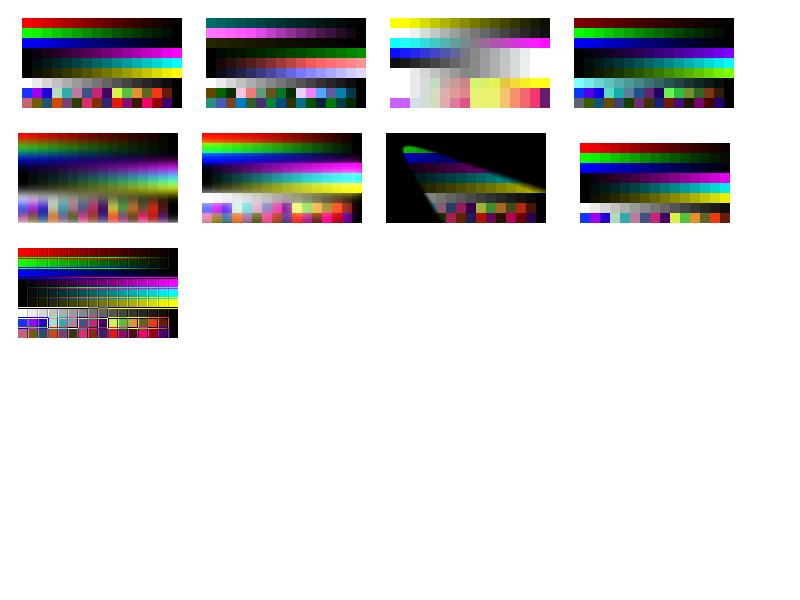
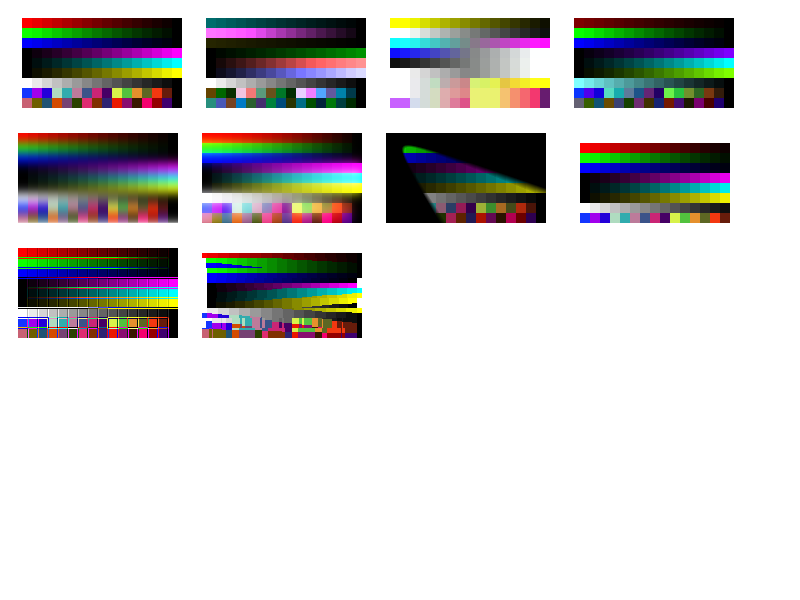
Integration of the Skia displacement mapping into WebKit https://bugs.webkit.org/show_bug.cgi?id=112927
Patch by Alexis Hetu <sugoi@chromium.org> on 2013-03-25
Reviewed by Stephen White.

Added displacement mapping to effect-reference.html and
effect-reference-hw.html

* WebCore.gypi:
* platform/graphics/filters/FEDisplacementMap.h:
(FEDisplacementMap):
Adding Skia specific declarations
* platform/graphics/filters/skia/FEDisplacementMapSkia.cpp: Added.
(WebCore):
(WebCore::toSkiaMode):
Provides conversion between the WebKit displacement mapping mode and
the Skia displacement mapping mode
(WebCore::FEDisplacementMap::platformApplySkia):
Displacement through the Skia API. (Accelerated only for now)
(WebCore::FEDisplacementMap::createImageFilter):
Displacement image filter creation through the Skia API.

git-svn-id: http://svn.webkit.org/repository/webkit/trunk@146779 268f45cc-cd09-0410-ab3c-d52691b4dbfc

Changed region(s): [[0.25, 0.42, 0.4688, 0.57]]

diff --git a/LayoutTests/css3/filters/effect-reference-hw.html b/LayoutTests/css3/filters/effect-reference-hw.html
@@ -34,6 +34,9 @@
     <filter id="convolvematrix">
       <feConvolveMatrix order="3 3" kernelMatrix="1 1 1   1 -7 1   1 1 1" bias ="0.3"/>
     </filter>
+    <filter id="displacement">
+      <feDisplacementMap scale="10" xChannelSelector="R" yChannelSelector="G"/>
+    </filter>
   </defs>
 </svg>
 <style>
@@ -51,3 +54,4 @@ img {
 <img style="-webkit-filter: url(#lighting); filter: url(#lighting);" src="resources/reference.png">
 <img style="-webkit-filter: url(#offset); filter: url(#offset);" src="resources/reference.png">
 <img style="-webkit-filter: url(#convolvematrix); filter: url(#convolvematrix);" src="resources/reference.png">
+<img style="-webkit-filter: url(#displacement); filter: url(#displacement);" src="resources/reference.png">

diff --git a/LayoutTests/css3/filters/effect-reference.html b/LayoutTests/css3/filters/effect-reference.html
@@ -34,6 +34,9 @@
     <filter id="convolvematrix">
       <feConvolveMatrix order="3 3" kernelMatrix="1 1 1   1 -7 1   1 1 1" bias ="0.3"/>
     </filter>
+    <filter id="displacement">
+      <feDisplacementMap scale="10" xChannelSelector="R" yChannelSelector="G"/>
+    </filter>
   </defs>
 </svg>
 <style>
@@ -50,3 +53,4 @@ img {
 <img style="-webkit-filter: url(#lighting); filter: url(#lighting);" src="resources/reference.png">
 <img style="-webkit-filter: url(#offset); filter: url(#offset);" src="resources/reference.png">
 <img style="-webkit-filter: url(#convolvematrix); filter: url(#convolvematrix);" src="resources/reference.png">
+<img style="-webkit-filter: url(#displacement); filter: url(#displacement);" src="resources/reference.png">

diff --git a/Source/WebCore/platform/graphics/filters/skia/FEDisplacementMapSkia.cpp b/Source/WebCore/platform/graphics/filters/skia/FEDisplacementMapSkia.cpp
@@ -1,0 +1,106 @@
+/*
+ * Copyright (C) 2013 Google Inc. All rights reserved.
+ *
+ * Redistribution and use in source and binary forms, with or without
+ * modification, are permitted provided that the following conditions
+ * are met:
+ *
+ * 1.  Redistributions of source code must retain the above copyright
+ *     notice, this list of conditions and the following disclaimer.
+ * 2.  Redistributions in binary form must reproduce the above copyright
+ *     notice, this list of conditions and the following disclaimer in the
+ *     documentation and/or other materials provided with the distribution.
+ *
+ * THIS SOFTWARE IS PROVIDED BY APPLE AND ITS CONTRIBUTORS "AS IS" AND ANY
+ * EXPRESS OR IMPLIED WARRANTIES, INCLUDING, BUT NOT LIMITED TO, THE IMPLIED
+ * WARRANTIES OF MERCHANTABILITY AND FITNESS FOR A PARTICULAR PURPOSE ARE
+ * DISCLAIMED. IN NO EVENT SHALL APPLE OR ITS CONTRIBUTORS BE LIABLE FOR ANY
+ * DIRECT, INDIRECT, INCIDENTAL, SPECIAL, EXEMPLARY, OR CONSEQUENTIAL DAMAGES
+ * (INCLUDING, BUT NOT LIMITED TO, PROCUREMENT OF SUBSTITUTE GOODS OR SERVICES;
+ * LOSS OF USE, DATA, OR PROFITS; OR BUSINESS INTERRUPTION) HOWEVER CAUSED AND
+ * ON ANY THEORY OF LIABILITY, WHETHER IN CONTRACT, STRICT LIABILITY, OR TORT
+ * (INCLUDING NEGLIGENCE OR OTHERWISE) ARISING IN ANY WAY OUT OF THE USE OF
+ * THIS SOFTWARE, EVEN IF ADVISED OF THE POSSIBILITY OF SUCH DAMAGE.
+ */
+
+#include "config.h"
+
+#if ENABLE(FILTERS)
+#include "FEDisplacementMap.h"
+
+#include "NativeImageSkia.h"
+#include "SkBitmapSource.h"
+#include "SkDisplacementMapEffect.h"
+#include "SkiaImageFilterBuilder.h"
+
+namespace WebCore {
+
+static SkDisplacementMapEffect::ChannelSelectorType toSkiaMode(ChannelSelectorType type)
+{
+    switch (type) {
+    case CHANNEL_R:
+        return SkDisplacementMapEffect::kR_ChannelSelectorType;
+    case CHANNEL_G:
+        return SkDisplacementMapEffect::kG_ChannelSelectorType;
+    case CHANNEL_B:
+        return SkDisplacementMapEffect::kB_ChannelSelectorType;
+    case CHANNEL_A:
+        return SkDisplacementMapEffect::kA_ChannelSelectorType;
+    case CHANNEL_UNKNOWN:
+    default:
+        return SkDisplacementMapEffect::kUnknown_ChannelSelectorType;
+    }
+}
+
+bool FEDisplacementMap::platformApplySkia()
+{
+    // For now, only use the skia implementation for accelerated rendering.
+    if (filter()->renderingMode() != Accelerated)
+        return false;
+
+    FilterEffect* in = inputEffect(0);
+    FilterEffect* in2 = inputEffect(1);
+
+    if (!in || !in2) 
+        return false;
+
+    ImageBuffer* resultImage = createImageBufferResult();
+    if (!resultImage)
+        return false;
+
+    RefPtr<Image> color = in->asImageBuffer()->copyImage(DontCopyBackingStore);
+    RefPtr<Image> displ = in2->asImageBuffer()->copyImage(DontCopyBackingStore);
+
+    NativeImageSkia* colorNativeImage = color->nativeImageForCurrentFrame();
+    NativeImageSkia* displNativeImage = displ->nativeImageForCurrentFrame();
+
+    if (!colorNativeImage || !displNativeImage)
+        return false;
+
+    SkBitmap colorBitmap = colorNativeImage->bitmap();
+    SkBitmap displBitmap = displNativeImage->bitmap();
+
+    SkAutoTUnref<SkImageFilter> colorSource(new SkBitmapSource(colorBitmap));
+    SkAutoTUnref<SkImageFilter> displSource(new SkBitmapSource(displBitmap));
+    SkDisplacementMapEffect::ChannelSelectorType typeX = toSkiaMode(m_xChannelSelector);
+    SkDisplacementMapEffect::ChannelSelectorType typeY = toSkiaMode(m_yChannelSelector);
+    SkAutoTUnref<SkImageFilter> displEffect(new SkDisplacementMapEffect(
+        typeX, typeY, SkFloatToScalar(m_scale), displSource, colorSource));
+    SkPaint paint;
+    paint.setImageFilter(displEffect);
+    resultImage->context()->platformContext()->drawBitmap(colorBitmap, 0, 0, &paint);
+    return true;
+}
+
+SkImageFilter* FEDisplacementMap::createImageFilter(SkiaImageFilterBuilder* builder)
+{
+    SkImageFilter* color = builder->build(inputEffect(0));
+    SkImageFilter* displ = builder->build(inputEffect(1));
+    SkDisplacementMapEffect::ChannelSelectorType typeX = toSkiaMode(m_xChannelSelector);
+    SkDisplacementMapEffect::ChannelSelectorType typeY = toSkiaMode(m_yChannelSelector);
+    return new SkDisplacementMapEffect(typeX, typeY, SkFloatToScalar(m_scale), displ, color);
+}
+
+} // namespace WebCore
+
+#endif // ENABLE(FILTERS)

diff --git a/Source/WebCore/platform/graphics/filters/FEDisplacementMap.h b/Source/WebCore/platform/graphics/filters/FEDisplacementMap.h
@@ -63,6 +63,11 @@ public:
 private:
     FEDisplacementMap(Filter*, ChannelSelectorType xChannelSelector, ChannelSelectorType yChannelSelector, float);
 
+#if USE(SKIA)
+    virtual bool platformApplySkia();
+    virtual SkImageFilter* createImageFilter(SkiaImageFilterBuilder*);
+#endif
+
     ChannelSelectorType m_xChannelSelector;
     ChannelSelectorType m_yChannelSelector;
     float m_scale;
